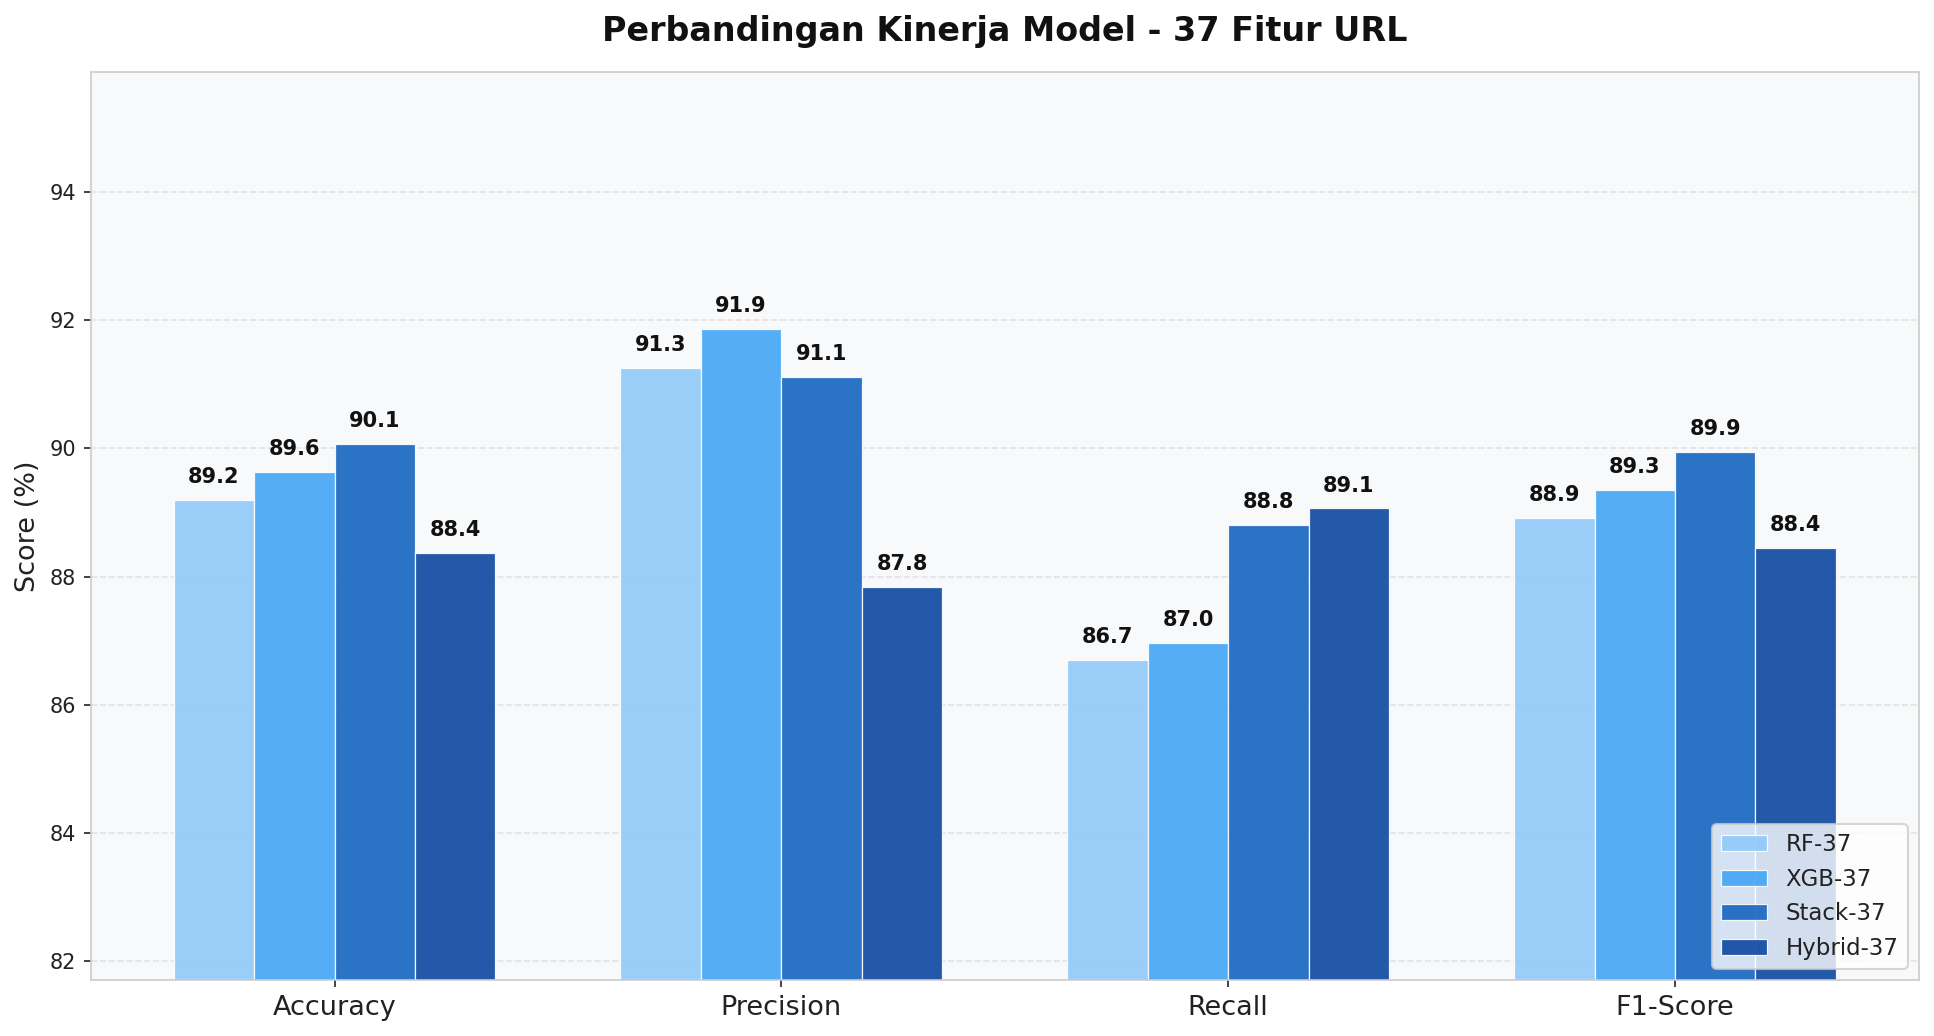
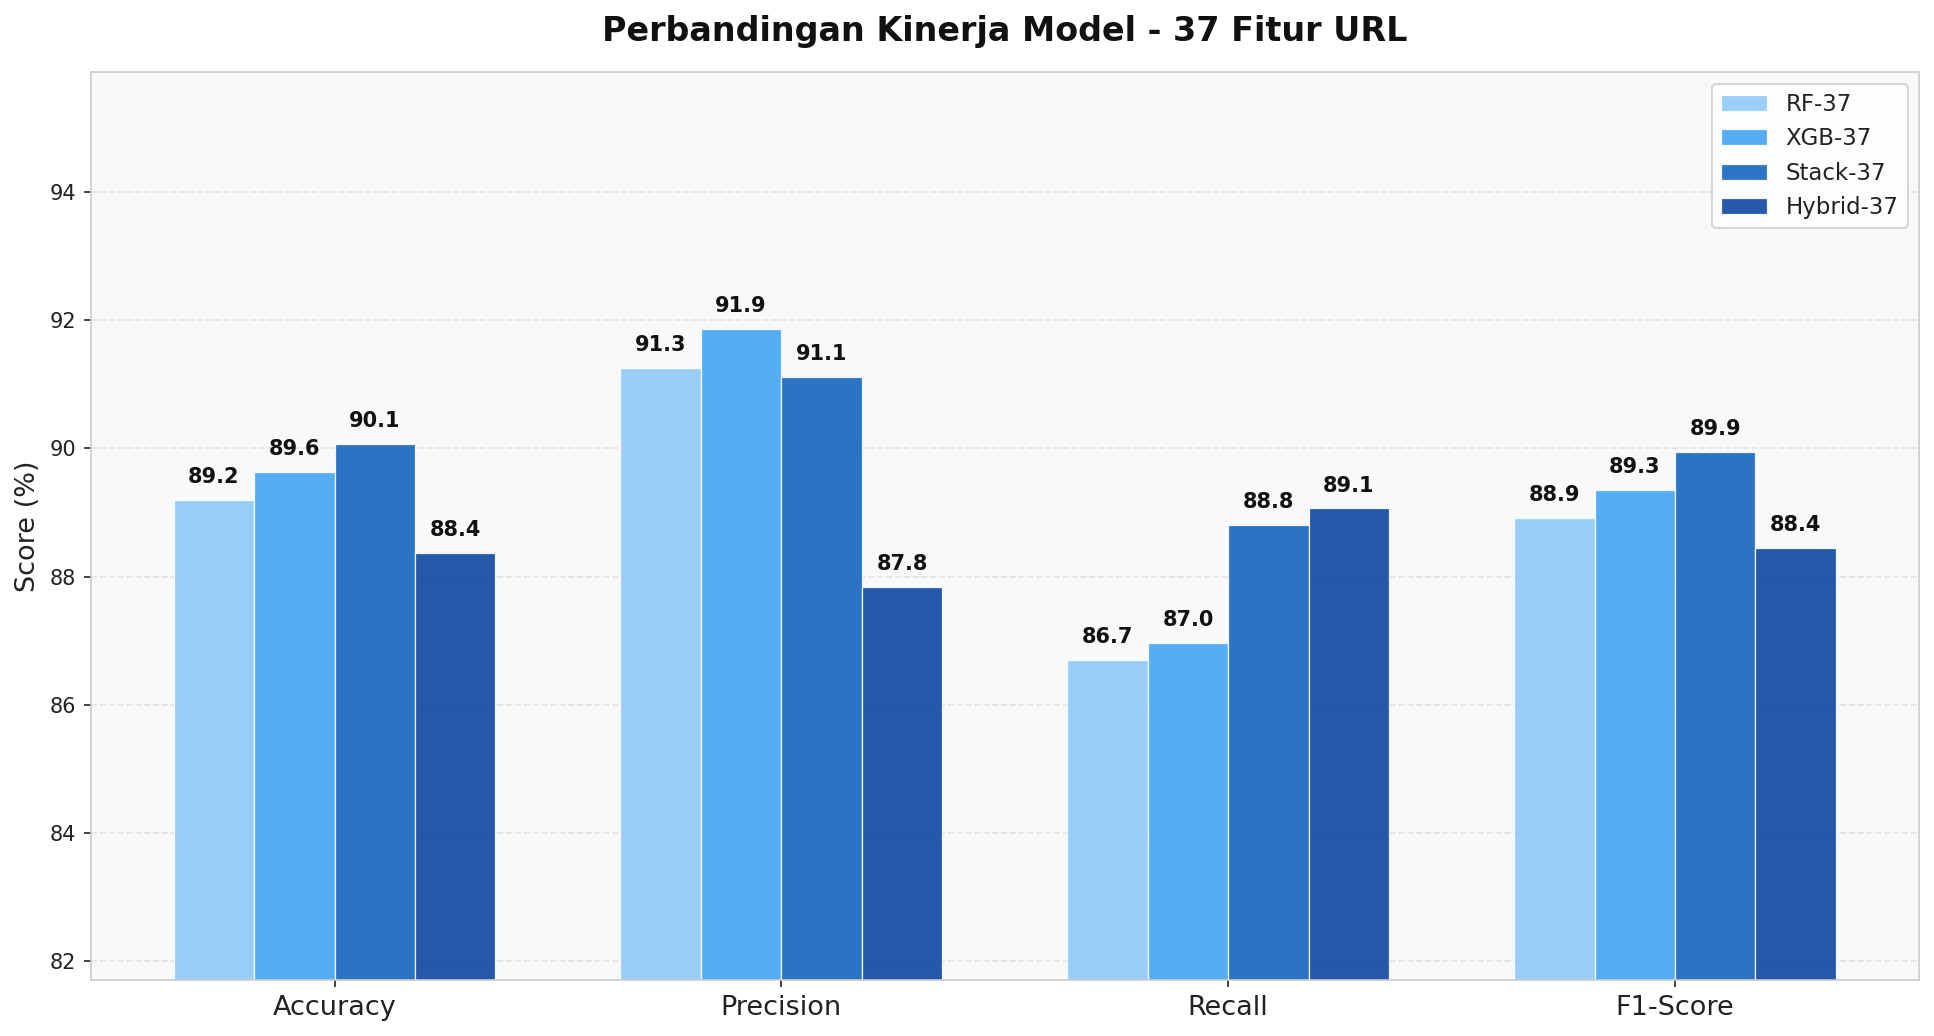
Fix bar char

Changed region(s): [[0.8687, 0.7722, 0.9928, 0.9575], [0.8687, 0.0927, 0.9928, 0.2162]]

diff --git a/evaluate_performance.py b/evaluate_performance.py
@@ -1,4 +1,4 @@
-"""
+"""
 evaluate_performance.py
 =======================
 Script evaluasi perbandingan kinerja model:
@@ -382,7 +382,7 @@ def plot_metric_comparison_group(results, group_keys, title, filename):
     ax.spines[:].set_color("#ccc")
     ax.yaxis.grid(True, color="#ddd", linestyle="--", alpha=0.8)
     ax.set_axisbelow(True)
-    ax.legend(loc="lower right", fontsize=11,
+    ax.legend(loc="upper right", fontsize=11,
               facecolor="white", edgecolor="#ccc", labelcolor="#222")
 
     plt.tight_layout()
@@ -654,7 +654,7 @@ def plot_auc_comparison(results):
     ax.xaxis.grid(True, color="#ddd", linestyle="--", alpha=0.8)
     ax.set_axisbelow(True)
     ax.invert_yaxis()   # Model terbaik di atas
-    ax.legend(loc="lower right", fontsize=10,
+    ax.legend(loc="upper right", fontsize=10,
               facecolor="white", edgecolor="#ccc", labelcolor="#333")
 
     plt.tight_layout()
@@ -679,7 +679,7 @@ if __name__ == "__main__":
     plot_metric_comparison_group(
         results,
         group_keys=["RF-37", "XGB-37", "Stack-37", "Hybrid-37"],
-        title="Perbandingan Kinerja Model â€“ 37 Fitur URL",
+        title="Perbandingan Kinerja Model - 37 Fitur URL",
         filename="01b_metric_comparison_37.png",
     )
 
@@ -687,7 +687,7 @@ if __name__ == "__main__":
     plot_metric_comparison_group(
         results,
         group_keys=["RF-81", "XGB-81", "Stack-81", "Hybrid-81"],
-        title="Perbandingan Kinerja Model â€“ 81 Fitur Hybrid",
+        title="Perbandingan Kinerja Model - 81 Fitur Hybrid",
         filename="01c_metric_comparison_81.png",
     )
 
